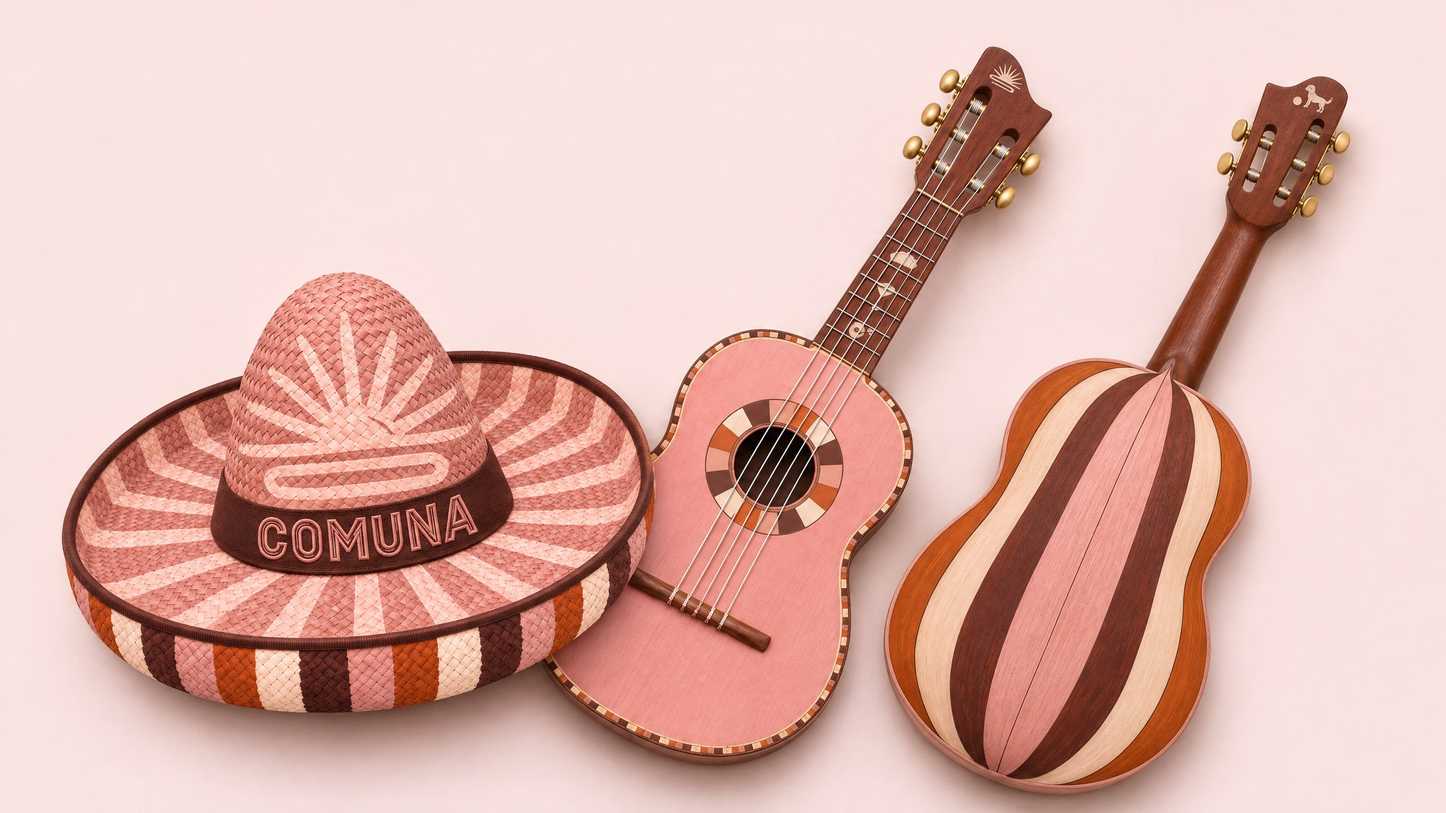
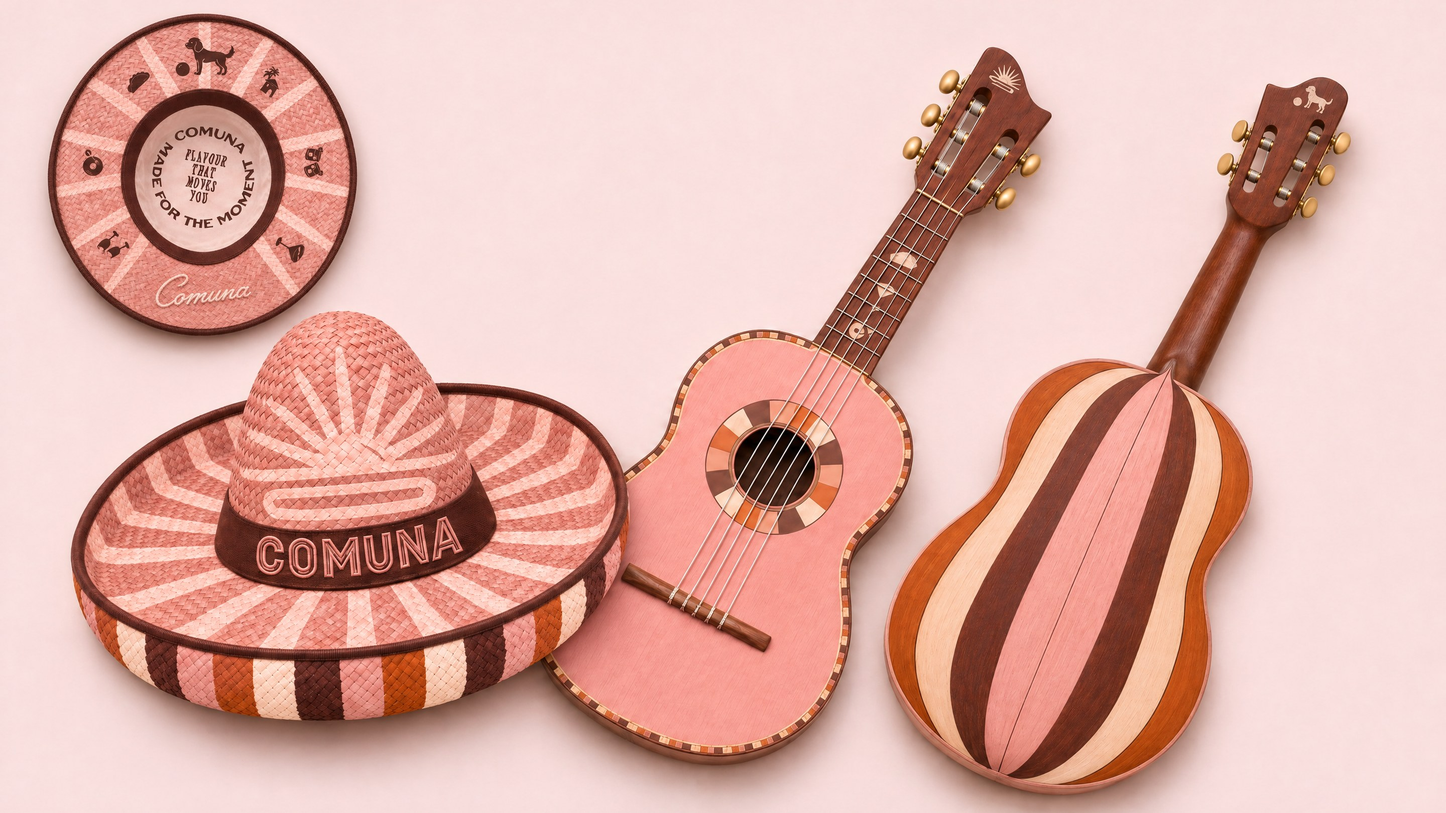
Comuna deck: the hat's inside on the opener, the cocktail bar in, the band out
Jesse: "band is irrelevant", show the inside of the hat on the opener,
"the cocktail bar and the coffee bar", the concepts full screen and
easy to digest.

diff --git a/deck/comuna/index.html b/deck/comuna/index.html
@@ -554,7 +554,7 @@
     <a class="mark" href="#" id="bar-mark" aria-label="Wonder Robotics, back to the first slide"><canvas id="bar-canvas" data-wonder-mark data-sub="ROBOTICS" data-ink="#131316" data-w="150" data-hr="0.30" width="300" height="45" role="img" aria-label="Wonder Robotics"></canvas></a>
     <div class="clock label"><span class="dot" id="floor-dot" aria-hidden="true"></span>BNE <b id="clock">--:--</b> &nbsp;<span id="floor-state">Floor hours 9 to 7</span></div>
     <nav class="label" aria-label="Sections">
-      <a href="#" data-go="Comuna">Comuna</a><a href="#" data-go="The coffee cart">Coffee</a><a href="#" data-go="The hat">The hat</a><a href="#" data-go="The band">The band</a><a href="#" data-go="CASA, all night">CASA</a><a href="#" data-go="Wonder Robotics">Wonder</a><a href="#" data-go="Who we work with">Who we work with</a>
+      <a href="#" data-go="Comuna">Comuna</a><a href="#" data-go="The coffee cart">Coffee</a><a href="#" data-go="The cocktail bar">The bar</a><a href="#" data-go="The hat">The hat</a><a href="#" data-go="CASA, all night">CASA</a><a href="#" data-go="Wonder Robotics">Wonder</a><a href="#" data-go="Who we work with">Who we work with</a>
     </nav>
     <div class="cta"><a class="btn want" href="/robotics/comuna/drawings/"><span>The drawings</span><i aria-hidden="true"><b>&nearr;</b></i></a><button type="button" class="btn ghost menu" id="menu-btn" aria-expanded="false" aria-controls="menu" aria-label="Menu"><i aria-hidden="true"><b></b></i></button></div>
   </div>
@@ -562,7 +562,7 @@
 <main id="deck">
 <section class="stage" id="s1" aria-label="Slide 1. The hat and the vihuela">
   <div class="slide"><div class="in full poster cm-poster cm-whole" style="--ground:#F8E3E1">
-    <div class="plate"><img src="../../img/deck/comuna/art/01-hat-and-vihuela.jpg" width="2880" height="1620" alt="Concept: Comuna's pink sombrero beside two vihuelas, one face up in pink, one face down showing its striped back"></div>
+    <div class="plate"><img src="../../img/deck/comuna/art/01-hat-and-vihuela.jpg" width="2880" height="1620" alt="Concept: Comuna's pink sombrero, a second one flipped to show its inside, and two vihuelas, one face up in pink, one face down showing its striped back"></div>
   </div></div>
 </section>
 
@@ -578,21 +578,21 @@
   </div></div>
 </section>
 
-<section class="stage" id="s4" aria-label="Slide 4. The hat">
+<section class="stage" id="s4" aria-label="Slide 4. The cocktail bar">
+  <div class="slide"><div class="in full poster cm-poster" style="--ground:#3A1515">
+    <div class="plate"><img src="../../img/deck/comuna/art/04-bar.jpg" width="2880" height="1620" alt="Concept: Comuna's main bar at Newstead with two robot arms in their pink hung from brass cradles over the bar, a pile of their pink hats beside each, the middle of the bar left to the bartenders"></div>
+  </div></div>
+</section>
+
+<section class="stage" id="s5" aria-label="Slide 5. The hat">
   <div class="slide"><div class="in full poster cm-poster" style="--ground:#F6EBE7">
     <div class="plate"><img src="../../img/deck/comuna/art/07-hat.jpg" width="2880" height="1620" alt="Concept: Comuna's pink sombrero, the rising sun woven into the crown, COMUNA on a cocoa band, the brim turned up in rust, cream, cocoa and rose"></div>
   </div></div>
 </section>
 
-<section class="stage" id="s5" aria-label="Slide 5. El Charro">
+<section class="stage" id="s6" aria-label="Slide 6. El Charro">
   <div class="slide"><div class="in full poster cm-poster" style="--ground:#EEE0DE">
     <div class="plate"><img src="../../img/deck/comuna/art/08-charro-hat.jpg" width="2880" height="1620" alt="Concept: the robot mariachi holds his pink Comuna sombrero out, his vihuela at his side"></div>
-  </div></div>
-</section>
-
-<section class="stage" id="s6" aria-label="Slide 6. The band">
-  <div class="slide"><div class="in full poster cm-poster" style="--ground:#FCD1D8">
-    <div class="plate"><img src="../../img/deck/comuna/art/09-band.jpg" width="2880" height="1620" alt="Concept: the robot mariachi band in Comuna's sombreros, the robot dog with his ball, a vihuela, a guitarron, a singer and a grand piano"></div>
   </div></div>
 </section>
 
@@ -636,7 +636,7 @@
   <div class="slide"><div class="in say-it own cm dark">
     <p class="lab r">Ownership</p>
     <h2 class="big r">This concept is ours until it is yours.</h2>
-    <p class="own-text r">The concepts in this deck, the coffee cart, CASA's taco line, the hat, the vihuela and the robot mariachi, their designs, drawings and renders, and this deck itself, belong to Wonder Byte Technology Pty Ltd (ACN 649 247 156), trading as Wonder Robotics, and are shared in confidence for evaluation only. Without a signed agreement and the deposit paid, none of it may be used, copied, adapted, shared or built, and nor may anything substantially similar to it in look, layout or design, by you or by anyone acting for you. The Comuna name and marks are yours.</p>
+    <p class="own-text r">The concepts in this deck, the coffee cart, the cocktail cradles, CASA's taco line, the hat, the vihuela and the robot mariachi, their designs, drawings and renders, and this deck itself, belong to Wonder Byte Technology Pty Ltd (ACN 649 247 156), trading as Wonder Robotics, and are shared in confidence for evaluation only. Without a signed agreement and the deposit paid, none of it may be used, copied, adapted, shared or built, and nor may anything substantially similar to it in look, layout or design, by you or by anyone acting for you. The Comuna name and marks are yours.</p>
     <img class="cm-sun" src="../../img/deck/comuna/sun-cream.png" width="580" height="416" alt="">
     <div class="foot"><p>&copy; 2026 Wonder Byte Technology Pty Ltd, trading as Wonder Robotics</p><p>10</p></div>
   </div></div>

diff --git a/src/comuna-slides.html b/src/comuna-slides.html
@@ -14,11 +14,12 @@
      Notes on the pages below. Nothing after the running order line may carry a comment: the slides are published as
      written, comments and all, to a client.
      - Jesse, 12 Nov: "cut all, I just want big concept screens with little to no text to start with" (the menu screen,
-       the coffee spec sheet, the R&D page and CASA's line drawing are out; he will ask for anything missing).
+       the coffee spec sheet, the R&D page, CASA's line drawing and the band are out; the cocktail bar is in ("the
+       cocktail bar and the coffee bar"); he will ask for anything missing).
      - "The drawings" leads to robotics/comuna/drawings/, which must be live before this deck is. -->
 
 <nav class="label" aria-label="Sections">
-      <a href="#" data-go="Comuna">Comuna</a><a href="#" data-go="The coffee cart">Coffee</a><a href="#" data-go="The hat">The hat</a><a href="#" data-go="The band">The band</a><a href="#" data-go="CASA, all night">CASA</a><a href="#" data-go="Wonder Robotics">Wonder</a><a href="#" data-go="Who we work with">Who we work with</a>
+      <a href="#" data-go="Comuna">Comuna</a><a href="#" data-go="The coffee cart">Coffee</a><a href="#" data-go="The cocktail bar">The bar</a><a href="#" data-go="The hat">The hat</a><a href="#" data-go="CASA, all night">CASA</a><a href="#" data-go="Wonder Robotics">Wonder</a><a href="#" data-go="Who we work with">Who we work with</a>
     </nav>
 
 <style>
@@ -71,7 +72,7 @@
 <!-- running order -->
 <section class="stage" id="s{{i}}" aria-label="Slide {{i}}. The hat and the vihuela">
   <div class="slide"><div class="in full poster cm-poster cm-whole" style="--ground:#F8E3E1">
-    <div class="plate"><img src="{{root}}img/deck/comuna/art/01-hat-and-vihuela.jpg" width="2880" height="1620" alt="Concept: Comuna's pink sombrero beside two vihuelas, one face up in pink, one face down showing its striped back"></div>
+    <div class="plate"><img src="{{root}}img/deck/comuna/art/01-hat-and-vihuela.jpg" width="2880" height="1620" alt="Concept: Comuna's pink sombrero, a second one flipped to show its inside, and two vihuelas, one face up in pink, one face down showing its striped back"></div>
   </div></div>
 </section>
 
@@ -87,6 +88,12 @@
   </div></div>
 </section>
 
+<section class="stage" id="s{{i}}" aria-label="Slide {{i}}. The cocktail bar">
+  <div class="slide"><div class="in full poster cm-poster" style="--ground:#3A1515">
+    <div class="plate"><img src="{{root}}img/deck/comuna/art/04-bar.jpg" width="2880" height="1620" alt="Concept: Comuna's main bar at Newstead with two robot arms in their pink hung from brass cradles over the bar, a pile of their pink hats beside each, the middle of the bar left to the bartenders"></div>
+  </div></div>
+</section>
+
 <section class="stage" id="s{{i}}" aria-label="Slide {{i}}. The hat">
   <div class="slide"><div class="in full poster cm-poster" style="--ground:#F6EBE7">
     <div class="plate"><img src="{{root}}img/deck/comuna/art/07-hat.jpg" width="2880" height="1620" alt="Concept: Comuna's pink sombrero, the rising sun woven into the crown, COMUNA on a cocoa band, the brim turned up in rust, cream, cocoa and rose"></div>
@@ -96,12 +103,6 @@
 <section class="stage" id="s{{i}}" aria-label="Slide {{i}}. El Charro">
   <div class="slide"><div class="in full poster cm-poster" style="--ground:#EEE0DE">
     <div class="plate"><img src="{{root}}img/deck/comuna/art/08-charro-hat.jpg" width="2880" height="1620" alt="Concept: the robot mariachi holds his pink Comuna sombrero out, his vihuela at his side"></div>
-  </div></div>
-</section>
-
-<section class="stage" id="s{{i}}" aria-label="Slide {{i}}. The band">
-  <div class="slide"><div class="in full poster cm-poster" style="--ground:#FCD1D8">
-    <div class="plate"><img src="{{root}}img/deck/comuna/art/09-band.jpg" width="2880" height="1620" alt="Concept: the robot mariachi band in Comuna's sombreros, the robot dog with his ball, a vihuela, a guitarron, a singer and a grand piano"></div>
   </div></div>
 </section>
 
@@ -123,7 +124,7 @@
   <div class="slide"><div class="in say-it own cm dark">
     <p class="lab r">Ownership</p>
     <h2 class="big r">This concept is ours until it is yours.</h2>
-    <p class="own-text r">The concepts in this deck, the coffee cart, CASA's taco line, the hat, the vihuela and the robot mariachi, their designs, drawings and renders, and this deck itself, belong to Wonder Byte Technology Pty Ltd (ACN 649 247 156), trading as Wonder Robotics, and are shared in confidence for evaluation only. Without a signed agreement and the deposit paid, none of it may be used, copied, adapted, shared or built, and nor may anything substantially similar to it in look, layout or design, by you or by anyone acting for you. The Comuna name and marks are yours.</p>
+    <p class="own-text r">The concepts in this deck, the coffee cart, the cocktail cradles, CASA's taco line, the hat, the vihuela and the robot mariachi, their designs, drawings and renders, and this deck itself, belong to Wonder Byte Technology Pty Ltd (ACN 649 247 156), trading as Wonder Robotics, and are shared in confidence for evaluation only. Without a signed agreement and the deposit paid, none of it may be used, copied, adapted, shared or built, and nor may anything substantially similar to it in look, layout or design, by you or by anyone acting for you. The Comuna name and marks are yours.</p>
     <img class="cm-sun" src="{{root}}img/deck/comuna/sun-cream.png" width="580" height="416" alt="">
     <div class="foot"><p>&copy; 2026 Wonder Byte Technology Pty Ltd, trading as Wonder Robotics</p><p>{{n}}</p></div>
   </div></div>
